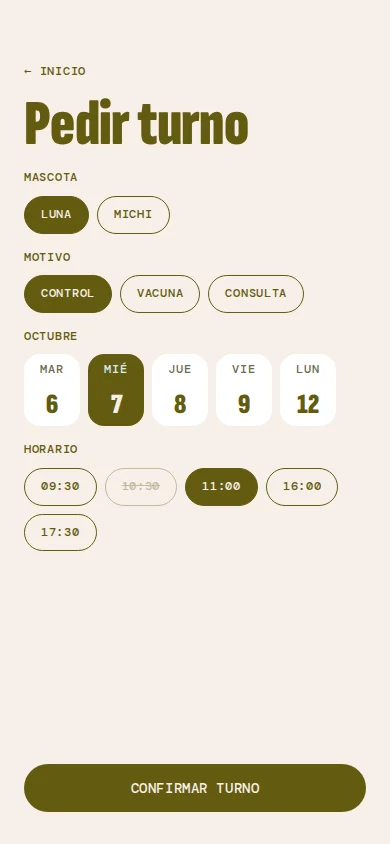
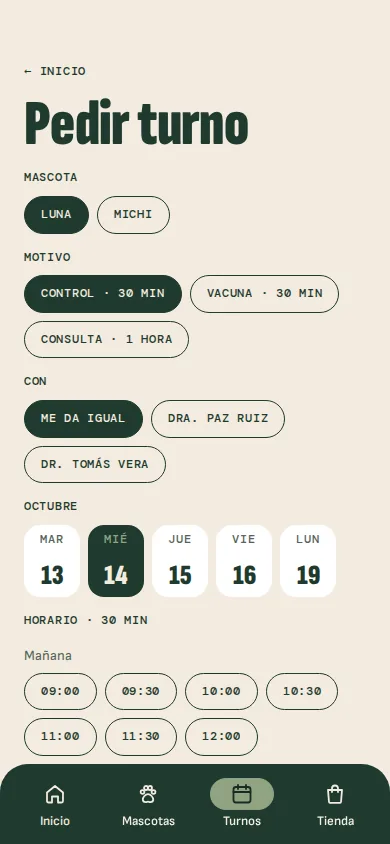
docs: README y capturas actualizadas

diff --git a/README.md b/README.md
@@ -1,26 +1,26 @@
 # Veterinaria Patitas amigas
 
-App web para una veterinaria, con dos entradas. Los **clientes**, desde el celular, ven la ficha de cada mascota con sus vacunas, piden turnos, reciben recordatorios y compran productos para retirar en el local. Los **veterinarios**, desde la computadora, manejan la agenda del día, los clientes, las mascotas con su historial y vacunas, y los productos.
+App web para una veterinaria, con dos entradas. Los **clientes**, desde el celular, ven la ficha de cada mascota con sus vacunas, piden turnos, reciben recordatorios y compran productos para retirar en el local. El **equipo de la veterinaria** (veterinarios y recepción), desde la computadora o el celular, maneja la agenda con sala de espera y lista de espera, la atención de cada consulta, la historia clínica, los productos con su stock y la caja del día.
 
 Es un proyecto de portfolio de **Lucía Romeo Gago**. Parte de un trabajo práctico de Programación Orientada a Objetos: un sistema de gestión en PHP que se usaba desde la consola ([repositorio POO](https://github.com/LuciaRomeoGago/POO)). Lo rediseñé en Figma como app web, para celular del lado del cliente y para computadora del lado del veterinario, y lo programé en React.
 
 - Diseño: [Figma](https://www.figma.com/design/npWi8LUuQ9fdjWpDYTM39I/Veterinaria---Patitas-amigas)
-- Demo: _pendiente_
+- Demo: [veterinaria-patitas-amigas.vercel.app](https://veterinaria-patitas-amigas.vercel.app/)
 
 | Inicio | Ficha de mascota | Pedir turno | Compra sin stock |
 | --- | --- | --- | --- |
 | ![Inicio del cliente](docs/capturas/inicio.webp) | ![Ficha de mascota](docs/capturas/ficha-mascota.webp) | ![Pedir turno](docs/capturas/pedir-turno.webp) | ![Compra sin stock](docs/capturas/compra-sin-stock.webp) |
 
-| Turnos del día (veterinario) | Ficha de mascota (veterinario) |
-| --- | --- |
-| ![Turnos del día](docs/capturas/vet-turnos.webp) | ![Ficha de mascota del veterinario](docs/capturas/vet-ficha.webp) |
+| Turnos del día (veterinario) | Ficha e historia clínica (veterinario) | Veterinario en el celular |
+| --- | --- | --- |
+| ![Turnos del día](docs/capturas/vet-turnos.webp) | ![Ficha de mascota del veterinario](docs/capturas/vet-ficha.webp) | ![Turnos del veterinario en el celular](docs/capturas/vet-celular.webp) |
 
 ## Para probar la demo
 
 - **Cliente:** número **1024** (tiene dos mascotas, turnos y compras) o **1028** (sin mascotas, para ver los estados vacíos).
-- **Veterinario:** número **7** (Dra. Paz Ruiz) u **8** (Dr. Tomás Vera).
+- **Veterinaria:** número **7** (Dra. Paz Ruiz) u **8** (Dr. Tomás Vera), y **9** (Ana Sosa, recepción: no ve la historia clínica completa ni el resumen).
 
-Los dos lados comparten los datos: si el veterinario registra una vacuna con aviso, al cliente le aparece en Recordatorios; si el cliente pide un turno, aparece en la agenda del día.
+Los dos lados comparten los datos: si el veterinario registra una vacuna con aviso, al cliente le aparece en Recordatorios; si el cliente pide un turno, aparece en la agenda; si el cliente marca una toma de la medicación, el veterinario lo ve en la historia clínica.
 
 ## Del sistema de consola a la app
 
@@ -38,7 +38,16 @@ Cada opción de los menús del código original tiene su pantalla:
 | Administrar mascotas de un cliente | Mascotas (se elige el cliente) y ficha de cada mascota |
 | Administrar productos: agregar, eliminar, actualizar, mostrar | Productos |
 
-Y se suman cosas que el sistema no tenía: turnos (el cliente los pide, el veterinario los ve en su agenda y los marca como atendidos), recordatorios que se pueden agregar al calendario (archivo `.ics`), vacunas con fecha de la próxima dosis y aviso de vencidas, alergias, medicación e historial por visita. Las tablas nuevas están en [`docs/sistema-ampliado.sql`](docs/sistema-ampliado.sql).
+Y se suma lo que el sistema no tenía:
+
+- **Agenda:** una por veterinario, de a 30 minutos; cada motivo ocupa lo que dura (consulta 1 hora, cirugía 2). Vista del día y de la semana, bloqueo de horarios, reprogramar, sala de espera (llegó, en consulta, atendido, y hace cuánto espera) y lista de espera para los días llenos, con aviso por WhatsApp cuando se libera un lugar.
+- **Consulta:** atender desde el turno con plantillas, calculadora de dosis por peso, aviso si se receta algo a lo que es alérgica, plan de tomas para el dueño y cobro a la caja.
+- **Historia clínica por partes** (alergias, medicación, enfermedades, lo que le hizo bien y mal, vacunas, consultas, estudios y fotos) con buscador, peso a lo largo del tiempo e historial de cambios: quién cargó o modificó qué.
+- **Cliente:** recordatorios en la app, en el calendario (`.ics`) y por WhatsApp; medicación en casa con cada toma para marcar; pedir otra vez lo que se termina; pago con Mercado Pago (simulado en la demo) para la tienda y la seña del turno.
+- **Gestión:** caja del día con cierre, movimientos de stock con vencimiento de lotes, aviso de poco stock, resumen del mes para descargar en Excel o imprimir, roles (veterinario y recepción) y un buscador general.
+- **Sin conexión:** se instala como app en el celular y sigue andando sin internet.
+
+Las tablas nuevas están en [`docs/sistema-ampliado.sql`](docs/sistema-ampliado.sql).
 
 La app del cliente está pensada para celular (390 px en Figma) y la del veterinario para escritorio (1440 px); en pantallas angostas el menú lateral pasa arriba.
 
@@ -50,7 +59,8 @@ La app del cliente está pensada para celular (390 px en Figma) y la del veterin
 | Build | Vite 5 |
 | Rutas | React Router 6 |
 | Estilos | CSS con las variables del sistema de diseño de Figma, sin librerías de UI |
-| Datos | Datos de ejemplo tipados, guardados en `localStorage` |
+| Datos | Datos de ejemplo tipados, guardados en `localStorage`; fotos y estudios en IndexedDB |
+| Sin conexión | Service worker propio y manifiesto web (se instala como app) |
 
 ## Cómo correrlo
 
@@ -81,4 +91,7 @@ src/
 - **Un solo estado para los dos perfiles.** Cliente y veterinario usan el mismo store, así la demo muestra cómo se conectan: lo que carga uno le aparece al otro.
 - **Las fechas de ejemplo se calculan desde hoy.** Así la demo siempre tiene un turno próximo, una vacuna vencida y una desparasitación en 15 días. Los datos se regeneran cada día.
 - **Sin backend por ahora.** El estado vive en un `useReducer` con Context y se guarda en `localStorage`. El modelo ya está pensado para pasar a una API en PHP con MySQL.
+- **WhatsApp sin integración paga.** Los avisos son enlaces `wa.me` con el mensaje ya escrito: quien atiende solo toca Enviar. En la demo el enlace no lleva el número (los clientes son inventados) y WhatsApp deja elegir el contacto.
+- **Mercado Pago, simulado.** En la demo el pago se aprueba o se rechaza a propósito, sin pedir datos. En producción, el servidor crea la preferencia de pago, se abre el checkout de Mercado Pago y el pago se confirma por webhook antes de registrarlo.
+- **Calculadora de dosis con valores de referencia.** Son de ejemplo para la demo; en una clínica se cargan los del vademécum que usen, y la dosis la revisa siempre quien la indica.
 - **Accesibilidad:** enlace para saltar al contenido, foco visible, interruptores con `role="switch"`, opciones con `aria-pressed`, hojas con `role="dialog"` que se cierran con Esc, y respeto de `prefers-reduced-motion`.
